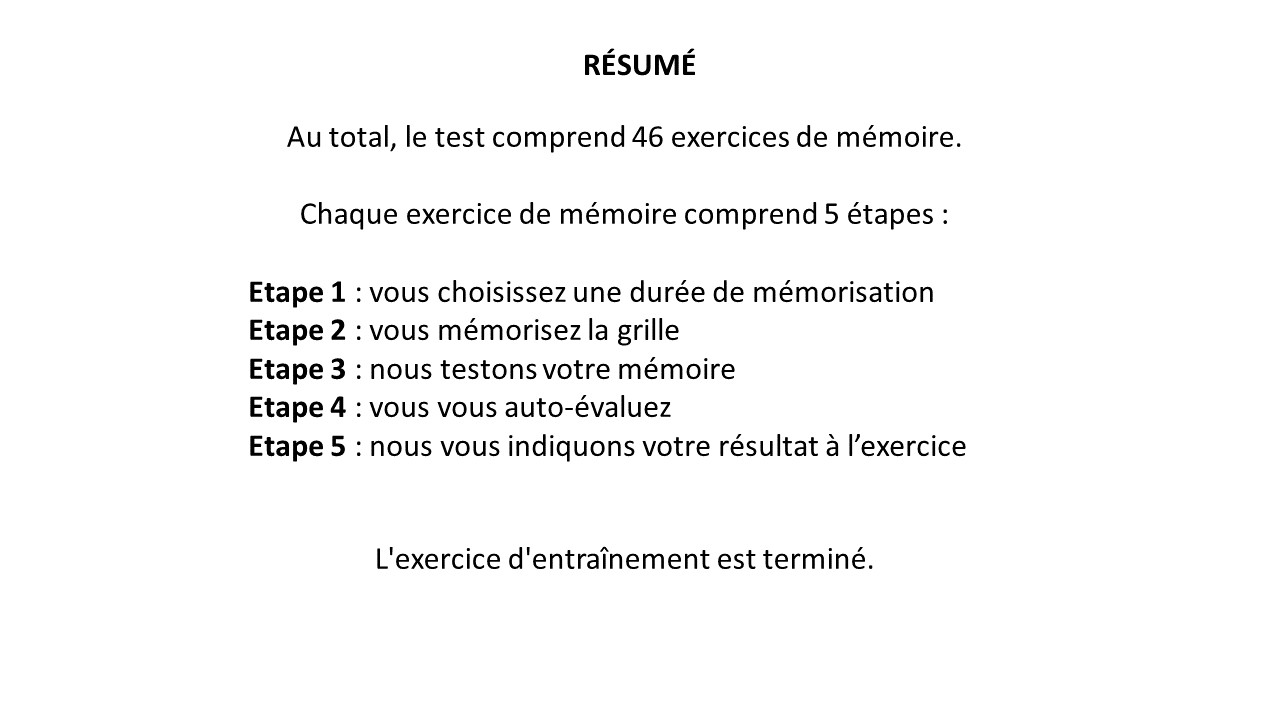
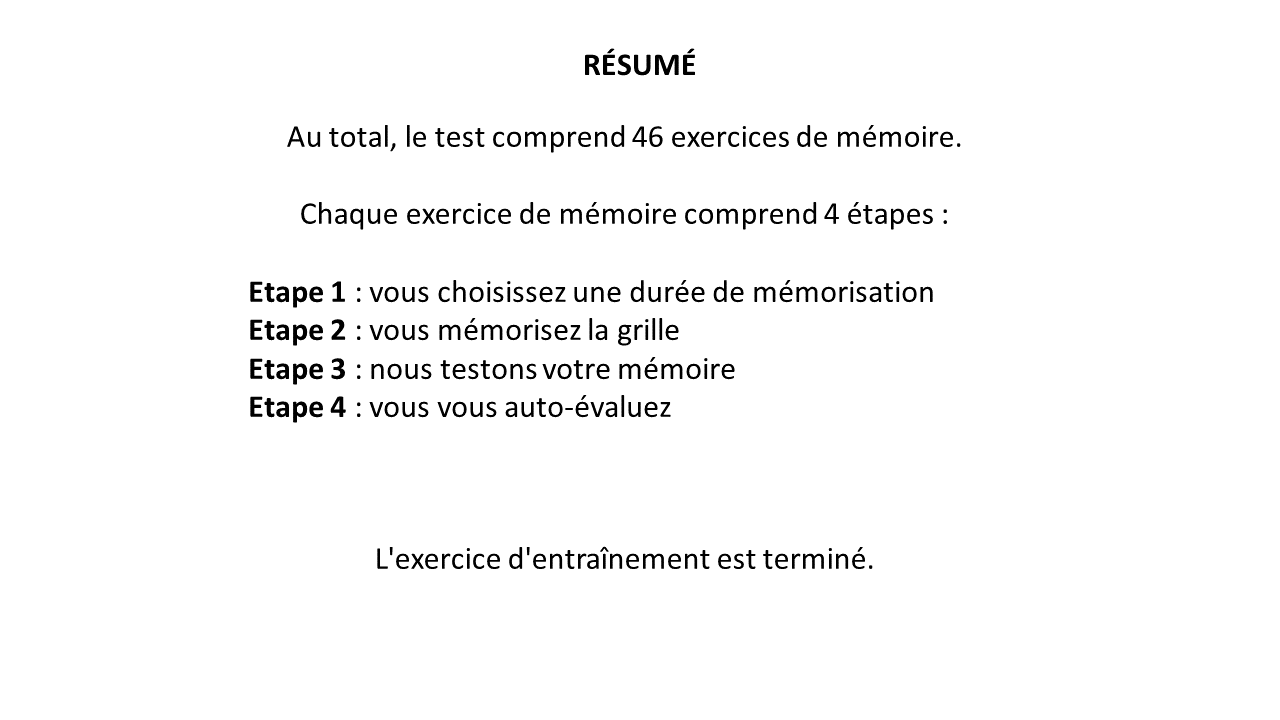
updated feedback and instructions

Changed region(s): [[0.1875, 0.6111, 0.75, 0.6417], [0.625, 0.275, 0.6562, 0.3056]]

diff --git a/src/SE2_TD_nofb/SE2.js b/src/SE2_TD_nofb/SE2.js
@@ -353,8 +353,8 @@ function SE2(nbBlocks, nbTrials){
 
 
       // PUSH TO TIMELINE //
-      timelineTask.push(fullscreenExp);
-      timelineTask.push(feedback_sans_grid);
+      // timelineTask.push(fullscreenExp);
+      // timelineTask.push(feedback_sans_grid);
 
       // CONDITIONAL FOR IF PARTICIPANT SKIPS PAIR //
       var if_explicit_feedback = {
@@ -369,7 +369,7 @@ function SE2(nbBlocks, nbTrials){
         }
       }
 
-      timelineTask.push(if_explicit_feedback);
+      // timelineTask.push(if_explicit_feedback);
 
 
       trial_counter++;
@@ -448,7 +448,6 @@ function SE2(nbBlocks, nbTrials){
         timelineTask.push(probe);
 
       };
-
       var trial_n = trial_i + 1;
       nbTrial_counter++;
 
@@ -489,6 +488,7 @@ function SE2(nbBlocks, nbTrials){
       // PUSH TO TIMELINE //
       timelineTask.push(fullscreenExp);
       timelineTask.push(effort_want);
+
 
       var effort_phase = {
         type: 'html-button-response-WH',
@@ -637,6 +637,17 @@ function SE2(nbBlocks, nbTrials){
         type: 'html-button-response-WH',
         stimulus: '<p>Combien d&#39emplacements pensez-vous avoir correctement retrouvé ?</p>',
         choices: EnS_btns,
+        on_finish: function(data){
+          var TS_current = data.target_score;
+          var rew_current = data.reward;
+          if (nCorrect >= TS_current){
+            points_total = points_total + rew_current;
+            nTS++;
+          }
+          nCorrect       = 0;
+          correct_i      = [0,0,0,0,0,0,0,0,0,0];
+          test_counter   = 0;
+        },
         data: {
           blockNb: block_i,
           trialNb: trial_counter,
@@ -774,7 +785,7 @@ function SE2(nbBlocks, nbTrials){
         }
       }
 
-      timelineTask.push(if_explicit_feedback);
+      // timelineTask.push(if_explicit_feedback);
 
       trial_counter++;
 
@@ -817,7 +828,7 @@ function SE2(nbBlocks, nbTrials){
       var max_points = exp.max_points;
       var max_euro   = exp.rew_euro[1];
       var min_euro   = exp.rew_euro[0];
-      var total_points = points_total + jsPsych.data.get().filter({test_part:'feedback_train'}).values()[0].nTS
+      var total_points = points_total + jsPsych.data.get().filter({test_part:'post_test_conf_train'}).values()[0].nTS
       var points_fin = total_points == 1 ? 'point':'points';
       var euro_rew   = Math.round((((max_euro - min_euro)*(total_points - 0))/(max_points - 0)) + min_euro);
       var finish_stim = '<p>Le test de me&#769tacognition est maintenant termine&#769.</p><p>En total, vous avez gagné : <b>'+total_points+' '+points_fin+'</b>. Vous recevrez : <b>'+euro_rew+' €.</b></p><p><b>Merci beaucoup pour votre participation !</b></p>';

diff --git a/src/SE2_TD_nofb/SE2_training.js b/src/SE2_TD_nofb/SE2_training.js
@@ -293,6 +293,14 @@ function SE2_training(){
     type: 'html-button-response-WH',
     stimulus: '<p>Combien d&#39emplacements pensez-vous avoir correctement retrouvé ?</p>',
     choices: ['0','1','2','3','4'],
+    on_finish: function(data){
+      var TS_current = data.target_score;
+      var rew_current = data.reward;
+      if (nCorrect >= TS_current){
+        points_total_train = points_total_train + rew_current;
+        data.nTS = points_total_train;
+      }
+    },
     data: {
       blockNb: -2,
       trialNb: 999,
@@ -325,8 +333,8 @@ function SE2_training(){
     }
   }
 
-  timelineTask_train.push(fullscreenExp);
-  timelineTask_train.push(instructions6);
+  // timelineTask_train.push(fullscreenExp);
+  // timelineTask_train.push(instructions6);
 
   var feedback_with_grid_train = {
     type: 'html-button-response-fb-WH',
@@ -404,8 +412,8 @@ function SE2_training(){
 
 
   // PUSH TO TIMELINE //
-  timelineTask_train.push(fullscreenExp);
-  timelineTask_train.push(feedback_sans_grid_train);
+  // timelineTask_train.push(fullscreenExp);
+  // timelineTask_train.push(feedback_sans_grid_train);
 
   // CONDITIONAL FOR IF PARTICIPANT SKIPS PAIR //
   var if_explicit_feedback_train = {
@@ -439,8 +447,8 @@ function SE2_training(){
     }
   }
 
-  timelineTask_train.push(fullscreenExp);
-  timelineTask_train.push(instructions7);
+  // timelineTask_train.push(fullscreenExp);
+  // timelineTask_train.push(instructions7);
 
 
 
